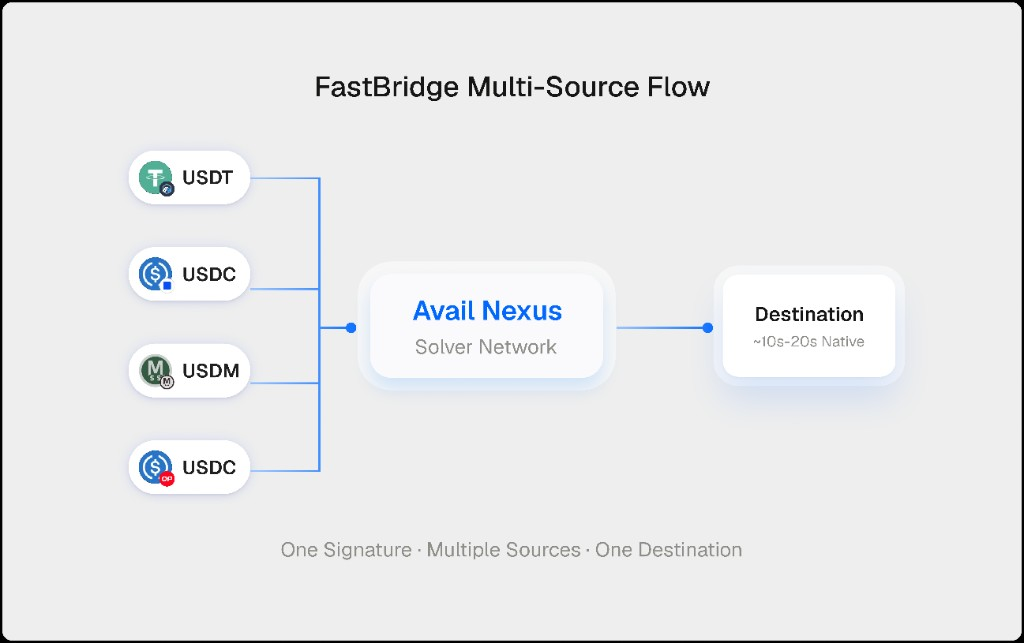
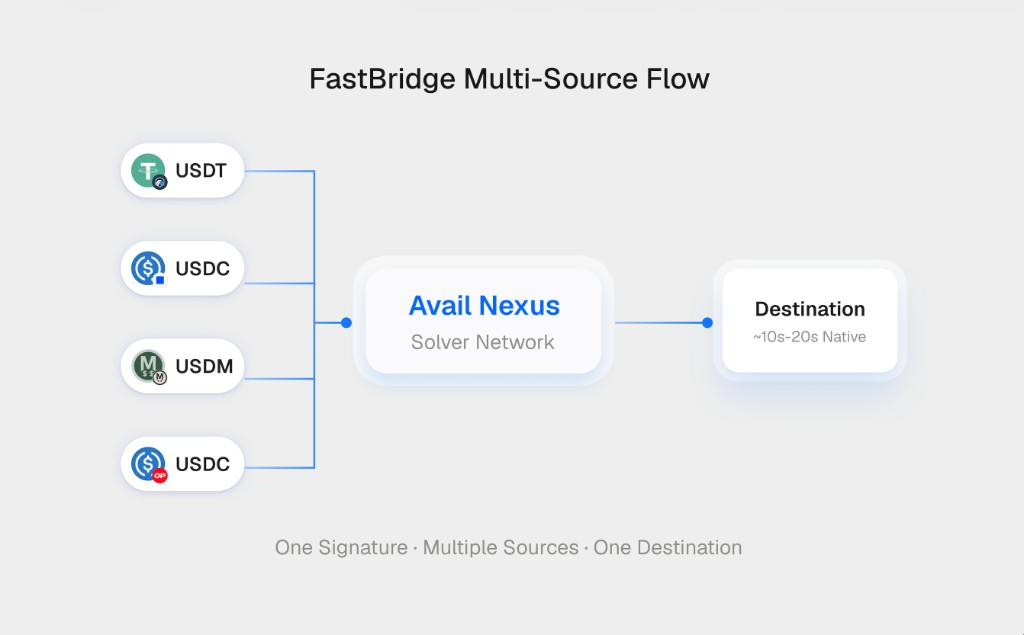
Update guide images to the latest screenshot exports.
Replace the FastBridge swap screenshot and multi-source flow diagram with the new assets provided by the user.

diff --git a/best-cross-chain-bridge-2026.html b/best-cross-chain-bridge-2026.html
@@ -13,7 +13,7 @@
   <link rel="stylesheet" href="hero.css?v=53">
   <link rel="stylesheet" href="sections.css?v=30">
   <link rel="stylesheet" href="faq.css?v=12">
-  <link rel="stylesheet" href="seo-page.css?v=38">
+  <link rel="stylesheet" href="seo-page.css?v=39">
   <link rel="stylesheet" href="button-hovers.css?v=20260605">
 </head>
 <body>
@@ -109,8 +109,8 @@
               </div>
               <p class="seo-pick__tagline"><strong>Best for:</strong> consolidating assets from multiple chains; cross-chain swaps; onboarding to new EVM L2s without managing gas.</p>
               <figure class="seo-pick__screenshot seo-pick__screenshot--filled">
-                <a href="assets/branding/screenshots/fastbridge-swap-ui-light.png?v=5" target="_blank" rel="noopener noreferrer">
-                  <img src="assets/branding/screenshots/fastbridge-swap-ui-light.png?v=5" alt="FastBridge Swap interface with send, receive, and recipient fields" width="1024" height="642" decoding="async" fetchpriority="high">
+                <a href="assets/branding/screenshots/fastbridge-swap-ui-light.png?v=6" target="_blank" rel="noopener noreferrer">
+                  <img src="assets/branding/screenshots/fastbridge-swap-ui-light.png?v=6" alt="FastBridge Swap interface with send, receive, and recipient fields" width="1024" height="637" decoding="async" fetchpriority="high">
                 </a>
                 <figcaption>Screenshot · fastbridge.availproject.org</figcaption>
               </figure>
@@ -323,7 +323,7 @@
           <p>Intent-based bridges flip the model. The user declares an outcome, <em>"I want X USDC on chain Y"</em>, and a solver fulfills the intent using their own liquidity on the destination chain, delivering native tokens in seconds. The solver is reimbursed on-chain after verification. FastBridge, Across, and deBridge all use this architecture.</p>
 
           <figure class="seo-flow">
-            <img src="assets/branding/diagrams/fastbridge-multi-source-flow.png?v=8" alt="FastBridge multi-source flow diagram showing USDT, USDC, USDM, and USDC on Optimism flowing through Avail Nexus solver network to a destination in one signature" width="1024" height="643" loading="lazy" decoding="async">
+            <img src="assets/branding/diagrams/fastbridge-multi-source-flow.png?v=9" alt="FastBridge multi-source flow diagram showing USDT, USDC, USDM, and USDC on Optimism flowing through Avail Nexus solver network to a destination in one signature" width="1024" height="635" loading="lazy" decoding="async">
           </figure>
 
           <p>FastBridge extends the intent model further. Most intent bridges still resolve to one source chain per intent. <strong>FastBridge resolves a single intent across multiple source chains simultaneously</strong>, and can swap into a different destination token in the same flow.</p>
